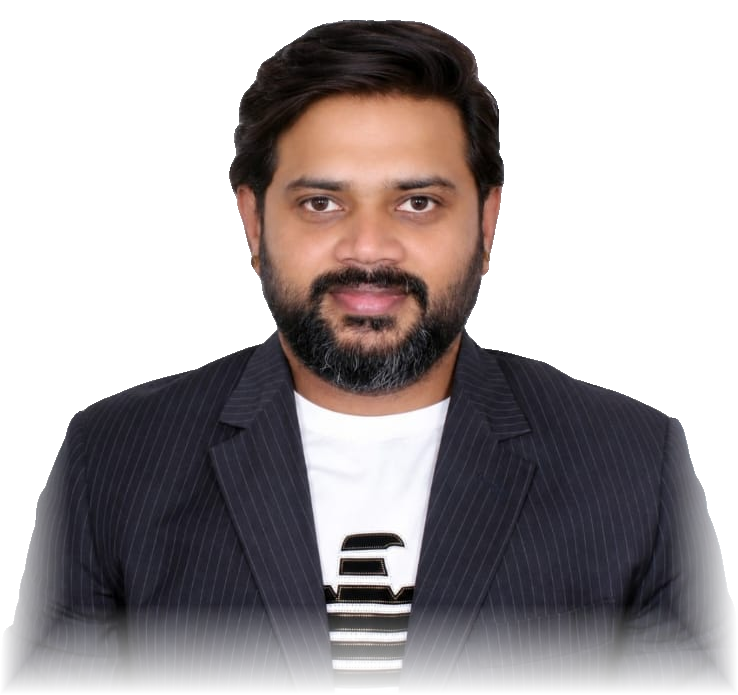
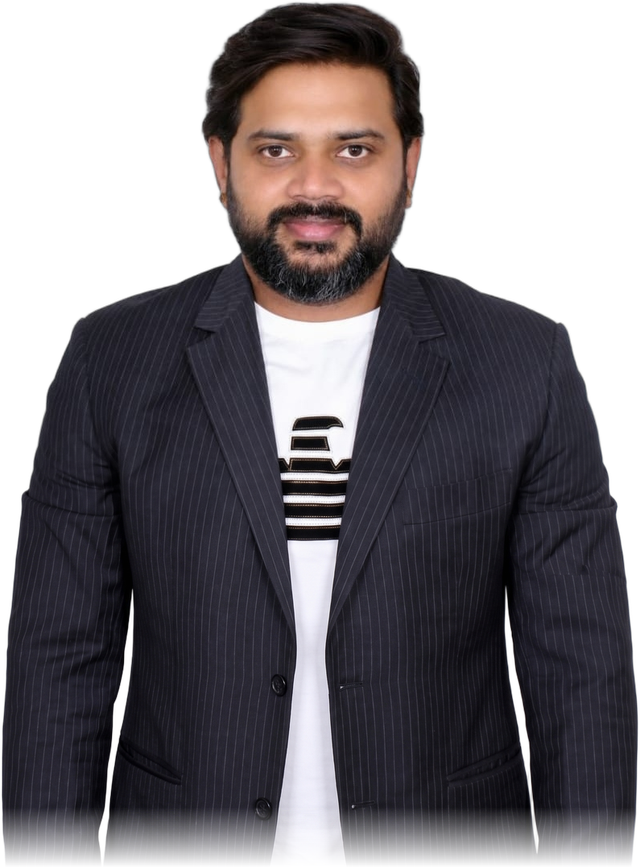
Website: fuller standing portrait of Vijay Kumar G in the director section
The photo is extended below the chest so he no longer looks cropped inside the ring. The face is the original photograph, unchanged.

diff --git a/app/page.tsx b/app/page.tsx
@@ -24,7 +24,7 @@ export default function Home(){const [contact,setContact]=useState(false);const 
 <section className="section solutions" id="solutions"><div className="section-heading"><div><div className="eyebrow dark">01 / INTEGRATED SOLUTIONS</div><h2>One partner.<br/>Every layer of protection.</h2></div><p className="section-intro">From the people at your gate to the systems behind them. A connected approach to safer, better-run spaces.</p></div><div className="service-grid">{services.map((s,i)=><button className="service-card" key={s.label} onClick={()=>setService(i)}><div className="service-top"><s.icon size={30} strokeWidth={1.3}/><span>0{i+1}</span></div><div className="eyebrow">{s.label}</div><h3>{s.title}</h3><p>{s.text}</p><span className="service-bottom">Explore solution <ArrowUpRight size={20}/></span></button>)}</div></section>
 <section className="tech-section section" id="technology"><div className="tech-copy"><div className="eyebrow">02 / MEET SDC COMMAND</div><h2>Security you can see.<br/><span>Decisions you can trust.</span></h2><p>A connected view of your workforce, sites and daily operations. Designed to turn scattered duty sheets into clear, accountable action.</p><Tabs defaultValue="visibility" className="tech-tabs"><TabsList variant="line"><TabsTrigger value="visibility">Visibility</TabsTrigger><TabsTrigger value="control">Control</TabsTrigger><TabsTrigger value="accountability">Accountability</TabsTrigger></TabsList><TabsContent value="visibility"><h3>Every site. One clear picture.</h3><p>See duty coverage, attendance exceptions and open incidents together. Know where your attention is needed.</p></TabsContent><TabsContent value="control"><h3>Plan with confidence.</h3><p>Allocate guards, review roster imports and prevent duplicate assignments before publishing a duty sheet.</p></TabsContent><TabsContent value="accountability"><h3>A record behind every action.</h3><p>Keep published duty history and an activity trail. Understand what changed, when it changed and which role made the update.</p></TabsContent></Tabs><a className="button brand-gold" href="/command">Experience the platform <ArrowUpRight size={18}/></a><span className="demo-caption">Explore the interactive concept with sample data.</span></div><div className="platform-window"><div className="window-header"><div className="window-dots"><i/><i/><i/></div><span><LockKeyhole size={11}/> SDC Command</span><span>DEMO</span></div><div className="platform-inner"><div className="mini-side"><img className="mini-crest" src="/brand/sdc-logo.png" alt="SDC" width={28} height={28}/><span/><span/><span/><span/></div><div className="mini-content"><div className="mini-head"><div><span>OPERATIONS OVERVIEW</span><h3>Your world. In view.</h3></div><Radar size={25}/></div><div className="mini-stats"><div><small>Scheduled today</small><strong>10</strong><span>Across 3 sites</span></div><div><small>Checked in</small><strong>7<span>/10</span></strong><span>3 awaiting check-in</span></div></div><div className="mini-table-title">Deployment overview <span>21 SEP</span></div>{[['Northstar Hospital','3 personnel','3 on duty'],['Oakridge College','4 personnel','4 on duty'],['Horizon Tech Park','3 personnel','0 on duty']].map(([a,b,c])=><div className="mini-site" key={a}><span className="mini-icon"><Building2 size={17}/></span><div><strong>{a}</strong><small>{b}</small></div><span>{c}</span></div>)}<div className="mini-alert"><Activity size={18}/><div><strong>Action, where it matters.</strong><small>Exceptions surfaced. Teams connected.</small></div><ArrowRight size={16}/></div></div></div></div></section>
 <section className="section sectors"><div><div className="eyebrow dark">03 / BUILT FOR YOUR WORLD</div><h2>Different environments.<br/>One uncompromising standard.</h2></div><div className="sector-layout"><div className="sector-list" role="tablist" aria-label="Industries">{sectors.map(([name],i)=><button role="tab" aria-selected={sector===i} aria-controls="sector-panel" id={`sector-${i}`} key={name} onClick={()=>setSector(i)} onKeyDown={e=>{if(e.key==='ArrowDown'||e.key==='ArrowUp'){e.preventDefault();const n=(i+(e.key==='ArrowDown'?1:-1)+sectors.length)%sectors.length;setSector(n);document.getElementById(`sector-${n}`)?.focus()}}} tabIndex={sector===i?0:-1} className={sector===i?'active':''}><span>0{i+1}</span>{name}<ArrowUpRight size={20}/></button>)}</div><div className="sector-panel" role="tabpanel" id="sector-panel" aria-labelledby={`sector-${sector}`}><div className="sector-symbol"><Building2 size={40} strokeWidth={1}/></div><span className="eyebrow dark">{sectors[sector][0]}</span><h3>{sectors[sector][1]}</h3><p>{sectors[sector][2]}</p><button className="text-link" onClick={()=>setContact(true)}>Discuss your site <ArrowRight size={18}/></button></div></div></section>
-<section className="veteran-section section" id="about"><div className="veteran-heading"><div className="eyebrow dark">04 / THE SDC DIFFERENCE</div><h2>Technology moves us forward.<br/>Discipline keeps us grounded.</h2><p>Founded and led by ex-servicemen, SDC brings a service-first mindset to every deployment. Our next chapter connects that human commitment with smarter systems.</p><a className="founder" href="#founder"><img src="/images/founder-lokesh-avatar.png" alt="" width={45} height={45}/><div><strong>Lokesh PN</strong><small>Founder &amp; Managing Director · 17 years, Indian Army</small></div></a><a className="founder" href="#director"><img src="/images/director-vijay-avatar.png" alt="" width={45} height={45}/><div><strong>Vijay Kumar G</strong><small>Director · 21 years in client relationships</small></div></a></div><div className="veteran-points">{[[ShieldCheck,'Leadership that takes ownership','A veteran-led chain of command. Clear responsibility from your site supervisor to the leadership team.'],[Users,'Prepared people, every day','Training in access control, fire safety and crisis handling, supported by SDC’s Bengaluru training academy.'],[ScanLine,'A more connected standard','A technology roadmap focused on verifiable attendance, digital records and practical operational visibility.']].map(([Icon,title,desc]:any)=><div key={title}><Icon size={25} strokeWidth={1.5}/><div><h3>{title}</h3><p>{desc}</p></div></div>)}</div></section><section className="founder-section section" id="founder"><div className="founder-photo"><img src="/images/founder-lokesh.png" alt="Lokesh PN, Founder and Managing Director of SDC" width={449} height={731}/></div><div className="founder-copy"><div className="eyebrow dark">FOUNDER &amp; MANAGING DIRECTOR</div><h2>Lokesh PN</h2><p className="founder-lead">17 years in the Indian Army’s Air Defence. Now leading SDC.</p><p>Lokesh served for 17 years in the Indian Army in Army Air Defence. He took part in Operation Vijay during the Kargil war and in Operation Parakram, and served in operational and insurgency-affected areas, including Jammu and Kashmir and Ladakh. He received specialised training at the Army Institute of Physical Training (AIPT), Pune, and pursued studies in Supply Chain Management at Alliance University, Bengaluru.</p><p>His service gave him deep experience in leadership, discipline, personnel management, operational planning and working in challenging environments, which he now brings to every SDC deployment.</p><ul className="founder-record">{["17 years · Army Air Defence","Operation Vijay · Kargil","Operation Parakram","Jammu & Kashmir and Ladakh","AIPT, Pune","Supply Chain Management · Alliance University"].map(item=><li key={item}>{item}</li>)}</ul><blockquote>“I am committed to maintaining high standards of security, personnel training, supervision, operational efficiency and safety, and to building strong client relationships with dependable security solutions tailored to each client’s requirements.”<cite>Lokesh PN</cite></blockquote></div></section><section className="founder-section director-section section" id="director"><div className="founder-copy"><div className="eyebrow dark">DIRECTOR</div><h2>Vijay Kumar G</h2><p className="founder-lead">21 years in marketing and client relationships.</p><p>Vijay is a business partner and professional trader associated with Mirae Asset Sharekhan Ltd. He headed a branch in Bengaluru that ranked No. 1 across India, and has worked with more than 5,000 customers, including high-net-worth clients, understanding their requirements and guiding them through their investments.</p><p>At SDC he brings that same focus to every client: understanding what each site needs, and making sure the service delivers it.</p><ul className="founder-record">{["21 years · marketing and CRM","5,000+ customers guided","No. 1 branch in India · Bengaluru","High-net-worth client relationships","B.Sc. Biotechnology","Technical Analysis · Online Trading Academy, California"].map(item=><li key={item}>{item}</li>)}</ul><blockquote>“My strength is customer relationships: understanding what clients need, and delivering it.”<cite>Vijay Kumar G</cite></blockquote></div><div className="founder-photo"><img src="/images/director-vijay.png" alt="Vijay Kumar G, Director of SDC" width={738} height={695}/></div></section><section className="training-gallery section" id="training"><div className="training-gallery-head"><div><div className="eyebrow dark">TRAINING IN ACTION</div><h2>Practised for real, not just taught.</h2></div><p>Live fire drills, fire-hose practice and classroom sessions: SDC guards rehearse the response before they ever need it on your site.</p></div><div className="training-grid"><figure className="training-shot big"><img src="/images/training/fire-drill.jpg" alt="An SDC guard putting out a live fire with an extinguisher" loading="lazy"/><figcaption>Live fire drill</figcaption></figure><figure className="training-shot "><img src="/images/training/classroom.jpg" alt="SDC lady guards in a classroom training session" loading="lazy"/><figcaption>Classroom sessions</figcaption></figure><figure className="training-shot "><img src="/images/training/hose-drill.jpg" alt="SDC guards in helmets and high-visibility vests on a fire-hose drill" loading="lazy"/><figcaption>Fire-hose drill</figcaption></figure><figure className="training-shot "><img src="/images/training/lecture.jpg" alt="A trainer addressing SDC guards in a lecture hall" loading="lazy"/><figcaption>Expert-led training</figcaption></figure><figure className="training-shot "><img src="/images/training/extinguisher-demo.jpg" alt="Guards watching an extinguisher demonstration on a training fire" loading="lazy"/><figcaption>Extinguisher handling</figcaption></figure><figure className="training-shot wide"><img src="/images/training/group.jpg" alt="SDC guards, lady guards and supervisors with the company's leadership" loading="lazy"/><figcaption>Our people</figcaption></figure></div></section>
+<section className="veteran-section section" id="about"><div className="veteran-heading"><div className="eyebrow dark">04 / THE SDC DIFFERENCE</div><h2>Technology moves us forward.<br/>Discipline keeps us grounded.</h2><p>Founded and led by ex-servicemen, SDC brings a service-first mindset to every deployment. Our next chapter connects that human commitment with smarter systems.</p><a className="founder" href="#founder"><img src="/images/founder-lokesh-avatar.png" alt="" width={45} height={45}/><div><strong>Lokesh PN</strong><small>Founder &amp; Managing Director · 17 years, Indian Army</small></div></a><a className="founder" href="#director"><img src="/images/director-vijay-avatar.png" alt="" width={45} height={45}/><div><strong>Vijay Kumar G</strong><small>Director · 21 years in client relationships</small></div></a></div><div className="veteran-points">{[[ShieldCheck,'Leadership that takes ownership','A veteran-led chain of command. Clear responsibility from your site supervisor to the leadership team.'],[Users,'Prepared people, every day','Training in access control, fire safety and crisis handling, supported by SDC’s Bengaluru training academy.'],[ScanLine,'A more connected standard','A technology roadmap focused on verifiable attendance, digital records and practical operational visibility.']].map(([Icon,title,desc]:any)=><div key={title}><Icon size={25} strokeWidth={1.5}/><div><h3>{title}</h3><p>{desc}</p></div></div>)}</div></section><section className="founder-section section" id="founder"><div className="founder-photo"><img src="/images/founder-lokesh.png" alt="Lokesh PN, Founder and Managing Director of SDC" width={449} height={731}/></div><div className="founder-copy"><div className="eyebrow dark">FOUNDER &amp; MANAGING DIRECTOR</div><h2>Lokesh PN</h2><p className="founder-lead">17 years in the Indian Army’s Air Defence. Now leading SDC.</p><p>Lokesh served for 17 years in the Indian Army in Army Air Defence. He took part in Operation Vijay during the Kargil war and in Operation Parakram, and served in operational and insurgency-affected areas, including Jammu and Kashmir and Ladakh. He received specialised training at the Army Institute of Physical Training (AIPT), Pune, and pursued studies in Supply Chain Management at Alliance University, Bengaluru.</p><p>His service gave him deep experience in leadership, discipline, personnel management, operational planning and working in challenging environments, which he now brings to every SDC deployment.</p><ul className="founder-record">{["17 years · Army Air Defence","Operation Vijay · Kargil","Operation Parakram","Jammu & Kashmir and Ladakh","AIPT, Pune","Supply Chain Management · Alliance University"].map(item=><li key={item}>{item}</li>)}</ul><blockquote>“I am committed to maintaining high standards of security, personnel training, supervision, operational efficiency and safety, and to building strong client relationships with dependable security solutions tailored to each client’s requirements.”<cite>Lokesh PN</cite></blockquote></div></section><section className="founder-section director-section section" id="director"><div className="founder-copy"><div className="eyebrow dark">DIRECTOR</div><h2>Vijay Kumar G</h2><p className="founder-lead">21 years in marketing and client relationships.</p><p>Vijay is a business partner and professional trader associated with Mirae Asset Sharekhan Ltd. He headed a branch in Bengaluru that ranked No. 1 across India, and has worked with more than 5,000 customers, including high-net-worth clients, understanding their requirements and guiding them through their investments.</p><p>At SDC he brings that same focus to every client: understanding what each site needs, and making sure the service delivers it.</p><ul className="founder-record">{["21 years · marketing and CRM","5,000+ customers guided","No. 1 branch in India · Bengaluru","High-net-worth client relationships","B.Sc. Biotechnology","Technical Analysis · Online Trading Academy, California"].map(item=><li key={item}>{item}</li>)}</ul><blockquote>“My strength is customer relationships: understanding what clients need, and delivering it.”<cite>Vijay Kumar G</cite></blockquote></div><div className="founder-photo"><img src="/images/director-vijay.png" alt="Vijay Kumar G, Director of SDC" width={640} height={868}/></div></section><section className="training-gallery section" id="training"><div className="training-gallery-head"><div><div className="eyebrow dark">TRAINING IN ACTION</div><h2>Practised for real, not just taught.</h2></div><p>Live fire drills, fire-hose practice and classroom sessions: SDC guards rehearse the response before they ever need it on your site.</p></div><div className="training-grid"><figure className="training-shot big"><img src="/images/training/fire-drill.jpg" alt="An SDC guard putting out a live fire with an extinguisher" loading="lazy"/><figcaption>Live fire drill</figcaption></figure><figure className="training-shot "><img src="/images/training/classroom.jpg" alt="SDC lady guards in a classroom training session" loading="lazy"/><figcaption>Classroom sessions</figcaption></figure><figure className="training-shot "><img src="/images/training/hose-drill.jpg" alt="SDC guards in helmets and high-visibility vests on a fire-hose drill" loading="lazy"/><figcaption>Fire-hose drill</figcaption></figure><figure className="training-shot "><img src="/images/training/lecture.jpg" alt="A trainer addressing SDC guards in a lecture hall" loading="lazy"/><figcaption>Expert-led training</figcaption></figure><figure className="training-shot "><img src="/images/training/extinguisher-demo.jpg" alt="Guards watching an extinguisher demonstration on a training fire" loading="lazy"/><figcaption>Extinguisher handling</figcaption></figure><figure className="training-shot wide"><img src="/images/training/group.jpg" alt="SDC guards, lady guards and supervisors with the company's leadership" loading="lazy"/><figcaption>Our people</figcaption></figure></div></section>
 <Advisors/>
 <section className="compliance-band"><div><ShieldCheck size={29}/><span><strong>Trust has a paper trail.</strong><small>PSARA licence · ISD/PSA-64/2019</small></span></div><p>Registered for EPF, ESI and GST.<br/>Compliance support across the employee lifecycle.</p><button onClick={()=>setContact(true)}>Request company credentials <ArrowUpRight size={18}/></button></section>
 <section className="section careers" id="careers"><div className="careers-intro"><div className="eyebrow dark">05 / CAREERS AT SDC</div><h2>Serve with pride.<br/>Grow with purpose.</h2><p>We are always looking for disciplined, dependable people to protect the places our clients care about. Ex-servicemen are especially welcome.</p><ul className="careers-perks">{perks.map(p=><li key={p}><Check size={17}/>{p}</li>)}</ul><div className="careers-actions"><a className="button brand-navy" href={whatsappLink('Hello SDC, I would like to apply for a job. My name is ')} target="_blank" rel="noopener noreferrer"><MessageCircle size={18}/> Apply on WhatsApp</a><a className="button careers-call" href={'tel:'+company.phone}><Phone size={17}/> Call {company.phoneDisplay}</a></div></div><div className="careers-roles">{roles.map(r=><a key={r.title} className="careers-role" href={whatsappLink(`Hello SDC, I would like to apply for the ${r.title.toLowerCase()} role. My name is `)} target="_blank" rel="noopener noreferrer"><span className="careers-role-icon"><r.icon size={22} strokeWidth={1.6}/></span><div><h3>{r.title}</h3><p>{r.text}</p></div><Briefcase size={18} className="careers-role-go"/></a>)}</div></section>

diff --git a/app/globals.css b/app/globals.css
@@ -228,5 +228,5 @@
 @media(max-width:920px){.site-header nav{display:none}.mobile-menu{display:block}}
 
 .founder{color:inherit;text-decoration:none}.founder>img{width:45px;height:45px;border-radius:50%;object-fit:cover;background:#e8edf4;border:2px solid #ffdc2e}.founder-section{background:radial-gradient(circle at 28% 50%,#ffffff 0%,#f4f6fa 55%,#e6ebf2 100%);display:grid;grid-template-columns:.85fr 1.15fr;gap:70px;align-items:center;border-top:1px solid #e1e5eb}.founder-photo{position:relative;display:flex;justify-content:center;align-items:flex-end;padding-top:6%;isolation:isolate}.founder-photo:before{content:"";position:absolute;z-index:-1;left:6%;right:6%;top:4%;aspect-ratio:1;border-radius:50%;background:radial-gradient(circle,#ffdc2e33 0%,#ffdc2e12 55%,transparent 72%);border:2px solid #e2c34d;outline:1px solid #e2c34d55;outline-offset:22px}.founder-photo img{position:relative;width:78%;max-width:380px;height:auto;filter:drop-shadow(0 22px 34px #0a1e3c33)}.founder-copy h2{font-size:46px;line-height:1.1;letter-spacing:-1.5px;margin-top:14px;color:#0f203a}.founder-lead{font-family:Manrope;font-size:21px;font-weight:700;color:#193664;margin-top:14px}.founder-copy>p{font-size:15px;line-height:1.85;color:#5f6e86;margin-top:16px;max-width:640px}.founder-copy>p.founder-lead{color:#193664;font-size:21px;line-height:1.4}.founder-record{display:flex;flex-wrap:wrap;gap:10px;list-style:none;padding:0;margin:24px 0 0;max-width:660px}.founder-record li{font-size:13px;color:#193664;background:#fff;border:1px solid #dfe3ea;border-left:3px solid #ffdc2e;padding:8px 13px;border-radius:6px}.founder-copy blockquote{margin:28px 0 0;padding:20px 24px;background:#fff;border-left:4px solid #ffdc2e;border-radius:8px;font-size:15px;line-height:1.8;color:#22395e;font-style:italic;max-width:640px;box-shadow:0 10px 30px #0a1e3c0d}.founder-copy cite{display:block;margin-top:10px;font-style:normal;font-size:12px;letter-spacing:1.4px;text-transform:uppercase;color:#8a6a00}@media(max-width:1100px){.founder-section{gap:40px;grid-template-columns:1fr 1.3fr}}@media(max-width:760px){.founder-section{grid-template-columns:1fr;gap:28px}.founder-photo{max-width:360px;margin:0 auto;width:100%}.founder-copy h2{font-size:36px}}
-.veteran-heading .founder+.founder{margin-top:14px}.director-section{grid-template-columns:1.15fr .85fr;background:radial-gradient(circle at 72% 50%,#ffffff 0%,#f4f6fa 55%,#e6ebf2 100%)}.director-section .founder-photo img{width:92%;max-width:440px}@media(max-width:1100px){.director-section{grid-template-columns:1.3fr 1fr}}@media(max-width:760px){.director-section{grid-template-columns:1fr}.director-section .founder-photo{order:-1}}
+.veteran-heading .founder+.founder{margin-top:14px}.director-section{grid-template-columns:1.15fr .85fr;background:radial-gradient(circle at 72% 50%,#ffffff 0%,#f4f6fa 55%,#e6ebf2 100%)}.director-section .founder-photo img{width:82%;max-width:400px}@media(max-width:1100px){.director-section{grid-template-columns:1.3fr 1fr}}@media(max-width:760px){.director-section{grid-template-columns:1fr}.director-section .founder-photo{order:-1}}
 .training-gallery{background:#0d1c34;color:#eaeef5}.training-gallery-head{display:flex;justify-content:space-between;align-items:flex-end;gap:60px}.training-gallery .eyebrow{color:#ffdc2e}.training-gallery h2{font-size:39px;line-height:1.25;color:#f1f4f8;margin-top:14px;max-width:560px}.training-gallery-head>p{font-size:15px;line-height:1.85;color:#a9b2c1;max-width:420px}.training-grid{display:grid;grid-template-columns:repeat(4,1fr);grid-auto-rows:210px;gap:14px;margin-top:40px}.training-shot{position:relative;margin:0;border-radius:10px;overflow:hidden;background:#13284a}.training-shot.big{grid-column:span 2;grid-row:span 2}.training-shot.wide{grid-column:1/-1;grid-row:span 2}.training-shot img{width:100%;height:100%;object-fit:cover;display:block;transition:transform .5s ease}.training-shot:hover img{transform:scale(1.04)}.training-shot figcaption{position:absolute;left:12px;bottom:12px;background:#ffdc2e;color:#052b5b;font-size:12px;font-weight:700;letter-spacing:.3px;padding:6px 11px;border-radius:6px}@media(max-width:1100px){.training-grid{grid-template-columns:repeat(2,1fr);grid-auto-rows:190px}}@media(max-width:760px){.training-gallery-head{display:block}.training-gallery-head>p{margin-top:16px}.training-gallery h2{font-size:32px}.training-grid{grid-template-columns:1fr;grid-auto-rows:220px}.training-shot.big,.training-shot.wide{grid-column:auto;grid-row:auto}.training-shot.big{grid-row:span 1}}
